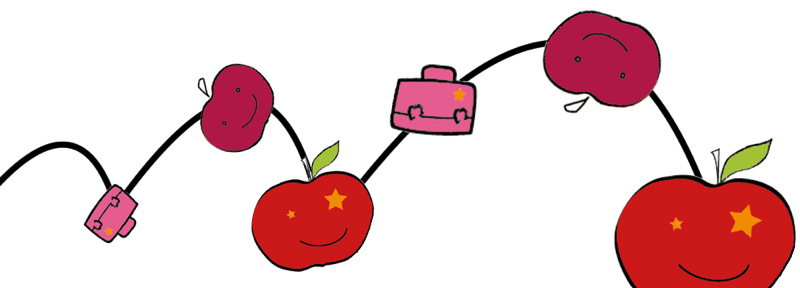
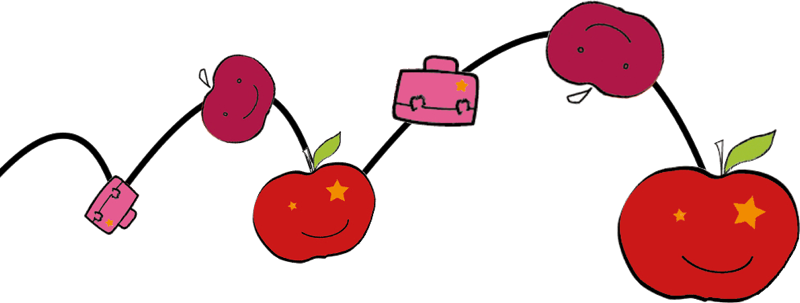
version 1
Préciser Maisons-Laffitte
Lien Facebook pour API
Mail général pour API
Blocs association pour Margo et Bouchons

diff --git a/src/content.config.ts b/src/content.config.ts
@@ -75,6 +75,14 @@ const partenaires = defineCollection({
     categorie: z.enum(['parents', 'institutions', 'solidarite']),
     description: z.string(),
     site: z.url().optional(),
+    // Liens vers les réseaux sociaux du partenaire (tous facultatifs)
+    reseaux: z
+      .object({
+        facebook: z.url().optional(),
+        instagram: z.url().optional(),
+        linkedin: z.url().optional(),
+      })
+      .optional(),
   }),
 });
 

diff --git a/docs/GUIDE-EDITION.md b/docs/GUIDE-EDITION.md
@@ -223,6 +223,27 @@ Ouvrez `src/data/partenaires.json` :
 | `categorie` | `parents` (associations de parents), `institutions` ou `solidarite` (sans accent) |
 | `description` | Quelques phrases de présentation |
 | `site` | *(facultatif)* Adresse du site, commençant par `https://`. Supprimez la ligne s'il n'y en a pas, **en retirant aussi la virgule** à la fin de la ligne précédente. |
+| `reseaux` | *(facultatif)* Liens vers les réseaux sociaux du partenaire (voir ci-dessous) |
+
+### Ajouter les réseaux sociaux d'un partenaire
+
+Ajoutez un bloc `reseaux` après la ligne `site`. Vous pouvez y mettre `facebook`, `instagram` et/ou `linkedin` : seuls les réseaux présents s'affichent, sous forme d'icônes à côté de « Visiter le site ».
+
+```json
+{
+  "id": "handi-cap-prevention",
+  "nom": "Handi-Cap-Prévention",
+  "categorie": "solidarite",
+  "description": "Texte de présentation du partenaire.",
+  "site": "https://www.handicaprevention.com",
+  "reseaux": {
+    "facebook": "https://www.facebook.com/…",
+    "instagram": "https://www.instagram.com/…"
+  }
+}
+```
+
+⚠ N'oubliez pas la **virgule** à la fin de la ligne `"site": …` avant le bloc `reseaux`, ni l'**accolade fermante** `}` du bloc.
 
 Les mêmes [pièges du JSON](#6-modifier-un-contact-ou-ajouter-une-école) (section 6) s'appliquent.
 
